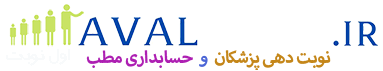
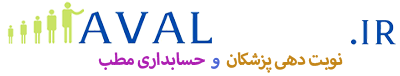
fix: update settings for production deployment - Change database path to resolve read-only issue - Update CSRF_TRUSTED_ORIGINS for avalnobat.ir - Add main.py for hosting compatibility

Changed region(s): [[0.0, 0.0282, 0.5457, 0.6479], [0.201, 0.6761, 0.8616, 0.9859], [0.8616, 0.2535, 1.0, 0.6479]]

diff --git a/booking/templates/booking/base.html b/booking/templates/booking/base.html
@@ -461,7 +461,7 @@
             <div class="icon-links">
                 <div>
                     <a href="{% url 'booking:doctor_list' %}" title="صفحه اصلی">
-                        <img src="/media/aval3.png" style="padding: 0; width: 60%;" alt="avalnobat-icon">
+                        <img src="/media/avalnobat.png" style="padding: 0; width: 60%;" alt="avalnobat-icon">
                     </a>
                     <div class="dropdown">
                         <span class="dropbtn nav-item">
